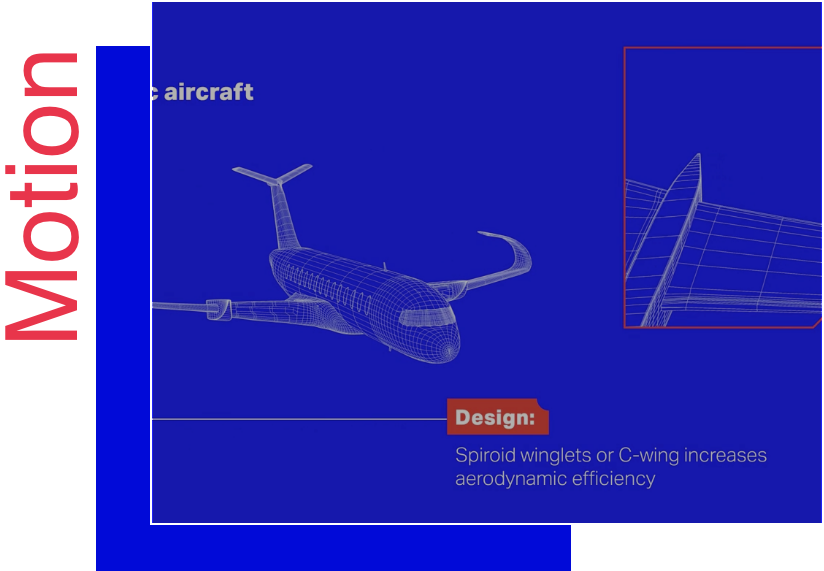
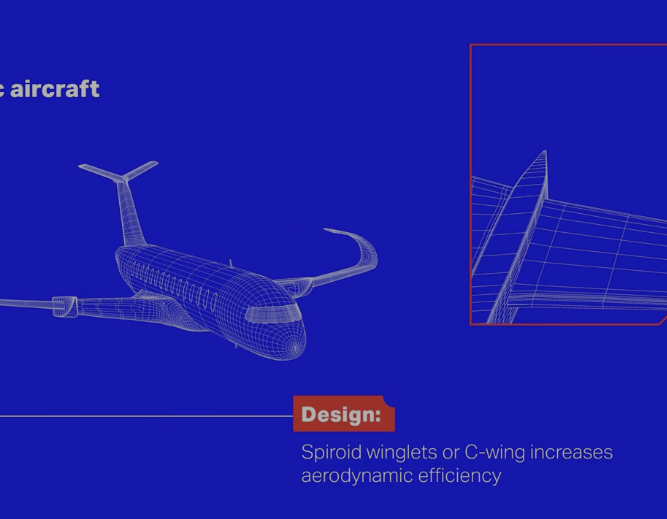
ajustes de sombra y detallesen imagenes y rotaciones

diff --git a/css/styles.css b/css/styles.css
@@ -37,9 +37,6 @@ color: white;
     margin-bottom: 0;
     text-align: left;
 }
-.hero-image{
-    object-fit: cover;
-    }
 .header {
     background-color: #fff;
     color: white;
@@ -51,75 +48,8 @@ color: white;
     padding: 0 20px;
     flex-wrap: wrap;
     }
-ol,
-ul {
-    margin: 0;
-    padding: 0;
-    list-style-type: none;
-}
 figure {
     margin: 0;
-}
-.menu {
-    height: inherit;
-}
-.header ul {
-    display: flex;
-    height: inherit;
-}
-.header ul li {
-    height: inherit;
-}
-.header a {
-    color: white;
-    text-decoration: none;
-    height: inherit;
-    display: flex;
-    align-items: center;
-    padding: 0 10px;
-}
-.portfolio {
-    background-color: #fafafa;
-    padding: 20px;
-}
-.project {
-    border: 1px solid gray;
-    border-radius: 10px;
-    margin: 10px;
-    margin-bottom: 15px;
-    background-color: white;
-    display: flex;
-    padding: 20px;
-    align-items: center;
-    justify-content: space-between;
-    flex-wrap: wrap;
-}
-.project-course,
-.project-date,
-.project-url{
-    margin: 10px 0;
-}
-.project-description{
-    font-size: 14px;
-}
-.project strong{
-    font-family: 'Inria Serif', serif;
-}
-
-.project-title{
-    font-size: 26px;
-    margin: 0 0 10px 0;
-}
-.project-details {
-    width: 50%;
-    font-size: 16px;
-}
-.project-imageContainer {
-    width: 50%;
-}
-.project-imageContainer img {
-    max-width: 100%;
-    width: 100%;
 }
 .event-Container{
     display: flex;
@@ -169,7 +99,7 @@ figure {
     display: flex;
 }
 .event-list-title{
-    margin: 0 30px 30px;
+    margin: 0 30px -40px;
 }
 .event-title{
     color: #E8354B;
@@ -179,13 +109,51 @@ figure {
     width: 25vw;
     font-weight: bold;
 }
+.rotate{ 
+      -webkit-transform: rotate(-90deg); 
+      -moz-transform: rotate(-90deg); 
+      -ms-transform: rotate(-90deg); 
+      -o-transform: rotate(-90deg); 
+      transform: rotate(-90deg); 
+      
+      -webkit-transform-origin: 50% 50%; 
+      -moz-transform-origin: 50% 50%; 
+      -ms-transform-origin: 50% 50%; 
+      -o-transform-origin: 50% 50%; 
+      transform-origin: 50% 50%; 
+      
+      font-size: 65px;  
+      position: relative;
+      text-align:center;
+    right: 85px;
+      top: 200px;
+        margin: 0;
+        color: #E8354B;
+    z-index: 1;
+    }
+
 .event img {
     width: 700px;
     height: auto;
     object-fit: cover;
 }
+
 .event-imageContainer1{
     width: 100%;
+    position: relative;
+    left: 110px;
+}
+.event-image-principal-blue{
+    border: solid 3px white;
+    -webkit-box-shadow: -40px 40px 0px 5px rgba(1,10,216,1);
+    -moz-box-shadow: -40px 40px 0px 5px rgba(1,10,216,1);
+    box-shadow: -40px 40px 0px 5px rgba(1,10,216,1);
+}
+.event-image-principal-red{
+    border: solid 3px white;
+    -webkit-box-shadow: -40px 40px 0px 5px rgba(232,53,75,1);
+    -moz-box-shadow: -40px 40px 0px 5px rgba(232,53,75,1);
+    box-shadow: -40px 40px 0px 5px rgba(232,53,75,1);
 }
 .event-detail {
     margin: 0px;
@@ -204,6 +172,7 @@ figure {
     justify-content: center;
     position: relative;
     bottom: 180px;
+    
 }
 .event-url{
     border: 1px solid black;
@@ -572,7 +541,7 @@ color: white;
         font-size: 40px;
         margin: 0;
         width: 100vw;
-        margin: 30px 0;
+        margin: 60px 0 30px;
     }
     .event-detail{
         margin: 0px;
@@ -583,7 +552,7 @@ color: white;
         left: 30px;
     }
     .event-imageContainer1{
-        width: 90%;
+        width: 85%;
     }
     .event-img{
        position: initial;
@@ -652,7 +621,7 @@ color: white;
         font-size: 40px;
     margin: 0;
     width: 87vw;
-    margin: 30px 0;
+    margin: 60px 0 30px;
     }
     .container-profil-bloc{
        background-color: #E8354B;

diff --git a/index.html b/index.html
@@ -19,14 +19,17 @@
                 </figure>
             </div>
         </header>
+        
+        
         <div class="wrapper-container">
             <h1 class="event-list-title" >2019 <span>Highlights</span></h1>
         </div>
-        <section class="wrapper-container-white">
+        <section class="wrapper-container">
             <div class="wrapper-container">
                  <article class="event">
+                   <h1 class="rotate">Motion</h1>
                     <figure class="event-imageContainer1">
-                         <img class="event-image" src="images/img.png" alt="" width="640">
+                         <img class="event-image-principal-blue" src="images/img.png" alt="" width="640">
                      </figure>
                       <div class="event-detail">
                          <h3 class="event-title">Aircraft of the future</h3>
@@ -57,8 +60,9 @@
             <section class="event-Container">
                 <div class="wrapper-container">
                      <article class="event">
+                        <h1 class="rotate">Motion</h1>
                         <figure class="event-imageContainer1">
-                             <img class="event-image" src="images/img.png" alt="" width="640">
+                             <img class="event-image-principal-red" src="images/img.png" alt="" width="640">
                          </figure>
                           <div class="event-detail">
                              <h3 class="event-title">Aircraft of the future</h3>
@@ -89,8 +93,9 @@
         <section class="event-Container">
             <div class="wrapper-container-white">
                  <article class="event">
+                    <h1 class="rotate">Motion</h1>
                     <figure class="event-imageContainer1">
-                         <img class="event-image" src="images/img.png" alt="" width="640">
+                         <img class="event-image-principal-blue" src="images/img.png" alt="" width="640">
                      </figure>
                       <div class="event-detail">
                          <h3 class="event-title">Aircraft of the future</h3>
@@ -121,8 +126,9 @@
             <section class="event-Container">
                 <div class="wrapper-container">
                      <article class="event">
+                       <h1 class="rotate">Motion</h1>
                         <figure class="event-imageContainer1">
-                             <img class="event-image" src="images/img.png" alt="" width="640">
+                             <img class="event-image-principal-red" src="images/img.png" alt="" width="640">
                          </figure>
                           <div class="event-detail">
                              <h3 class="event-title">Aircraft of the future</h3>
@@ -154,8 +160,9 @@
         <section class="wrapper-container-white">
             <div class="wrapper-container">
                  <article class="event">
+                   <h1 class="rotate">Motion</h1>
                     <figure class="event-imageContainer1">
-                         <img class="event-image" src="images/img.png" alt="" width="640">
+                         <img class="event-image-principal-blue" src="images/img.png" alt="" width="640">
                      </figure>
                       <div class="event-detail">
                          <h3 class="event-title">Aircraft of the future</h3>
